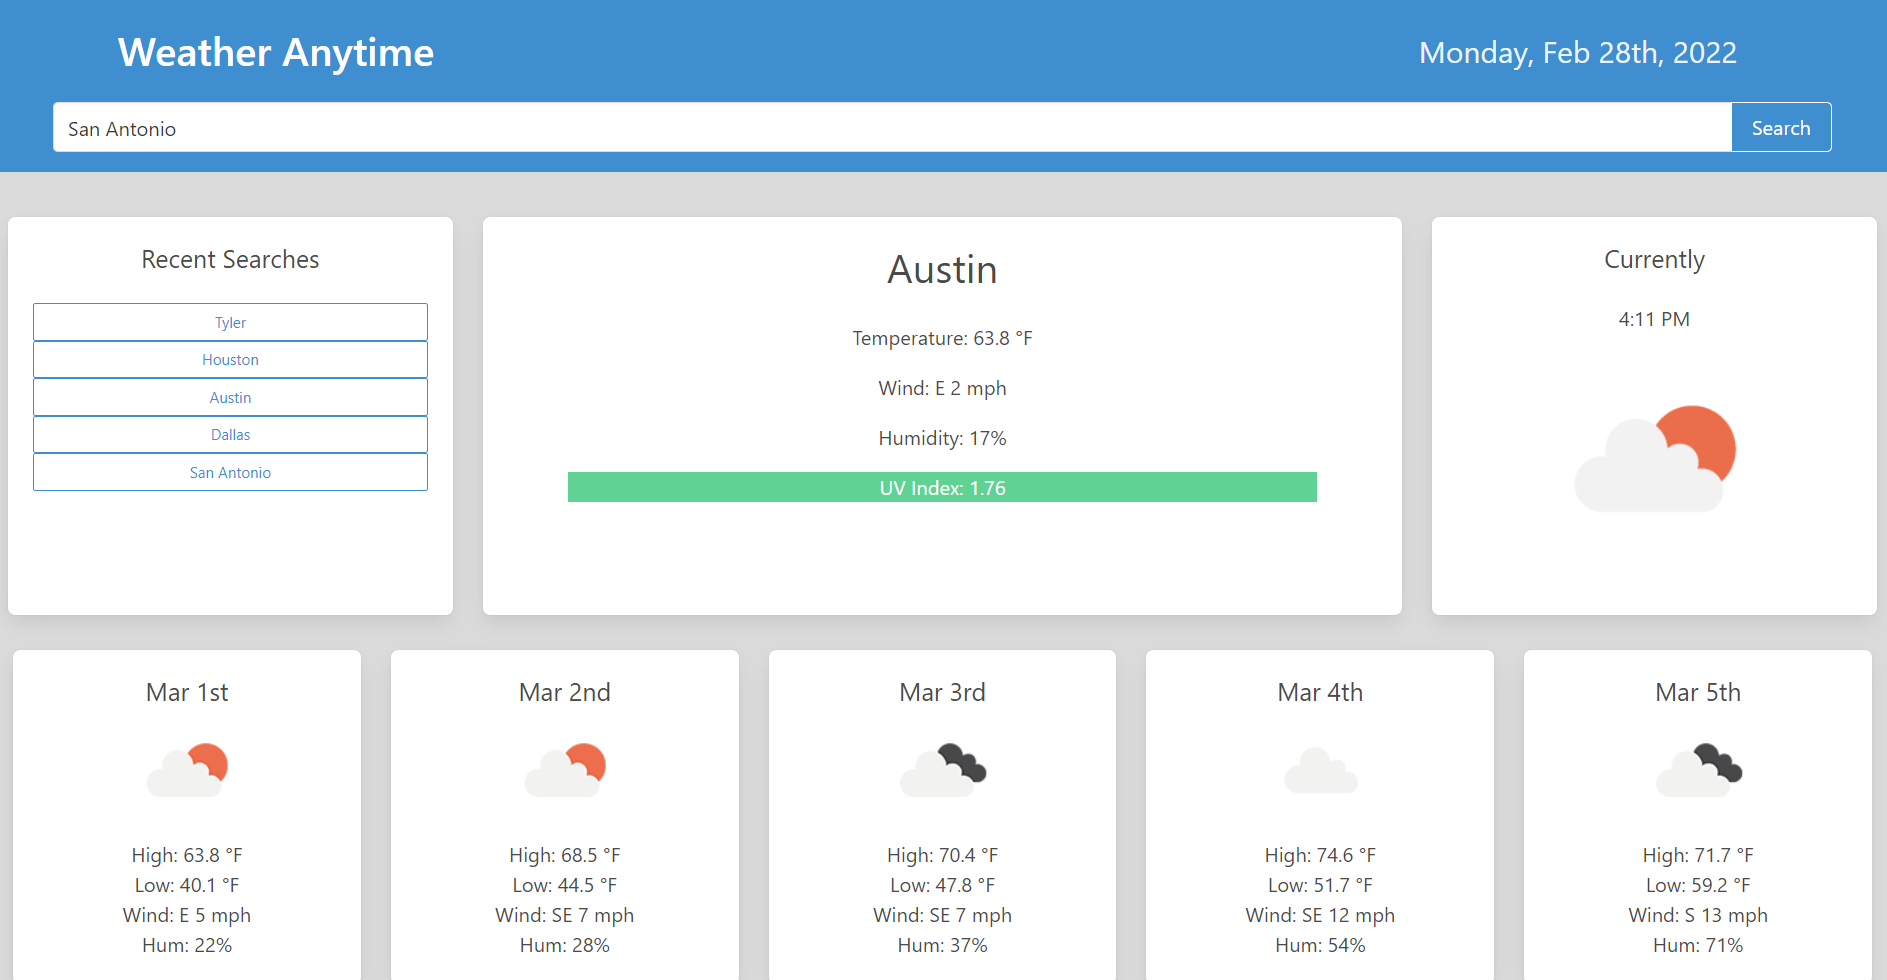
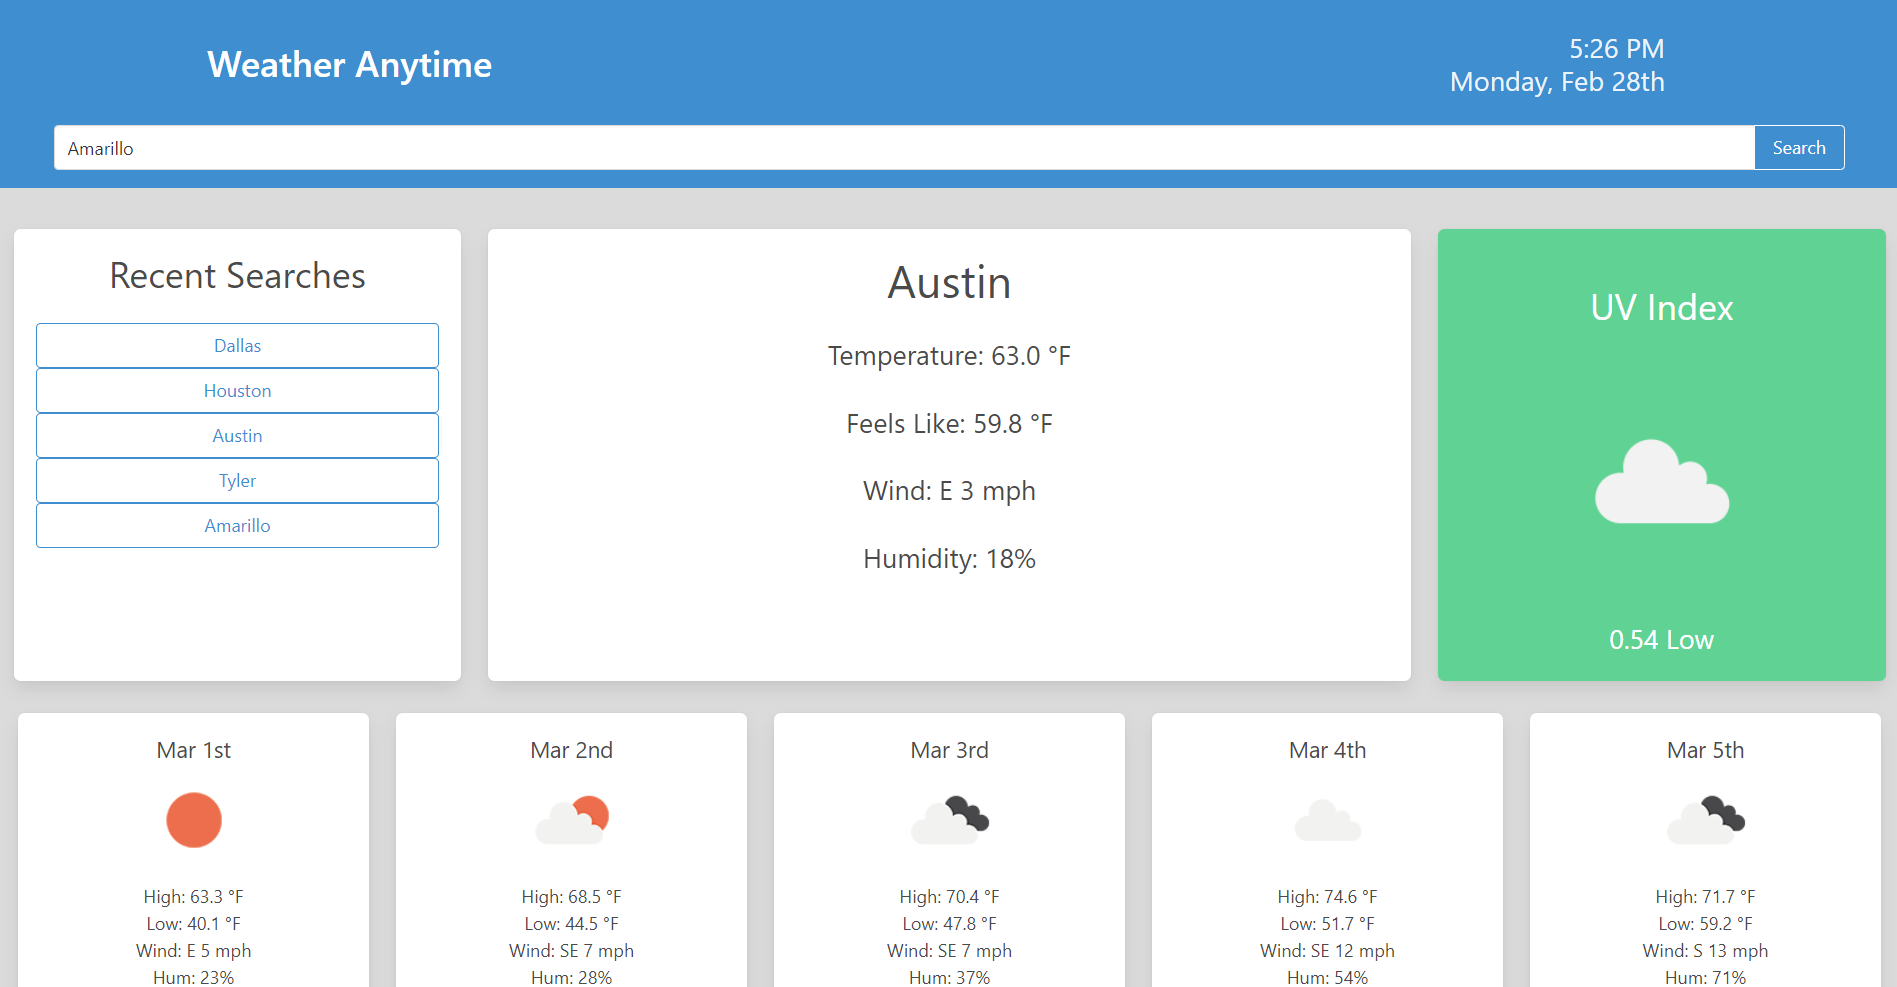
README.md written

diff --git a/README.md b/README.md
@@ -1,1 +1,30 @@
-# My-Weather-App
+# My Weather App
+
+## Challenge 6: Create a website to get and display the current weather and 5-day forecast using a search by city feature.
+
+## Built with:
+* HTML
+* CSS
+* Bulma Framework
+* JavaScript
+* JQuery
+* Moment
+* Open Weather API
+
+### This project was built from the ground up.  No files were provided to build from.
+
+My job on this project is to create a website which will provide the user with a search bar to make a search for weather by location.  The user input is to be used for an API fetch which will provide the necessary information to build the page.  The user will be presented with the current conditions for the chosen city as well as a 5-day forecast.  
+A header bar will contain the search bar as well as the current time and date of the user's current location.
+The current weather will display the city name, the temperature, the humidity, wind direction and speed.  A UV section will provide the current conditions represented by a weather icon and the current UV Index.  This tile will also change colors to represent the current UVI level.
+The 5-day forecast section is to feature 5 tiles to contain the weather for the next 5 days.  It will include the date, a weather icon, high and low temperature, the wind direction and speed and the humidity.
+There will also be a search history section which will hold the most recent user searches.  If clicked, the user will be presented with the current and future weather for that city.
+
+## Weather Anytime
+https://jflo1981.github.io/My-Weather-App/
+
+![Webpage ScreenShot](https://user-images.githubusercontent.com/88595179/156230877-38fb69f9-47f1-4221-b77e-bec808222b08.png)
+
+## Contributions:
+* Written by Jarod Florence
+
+### ©2022 (jf.)
